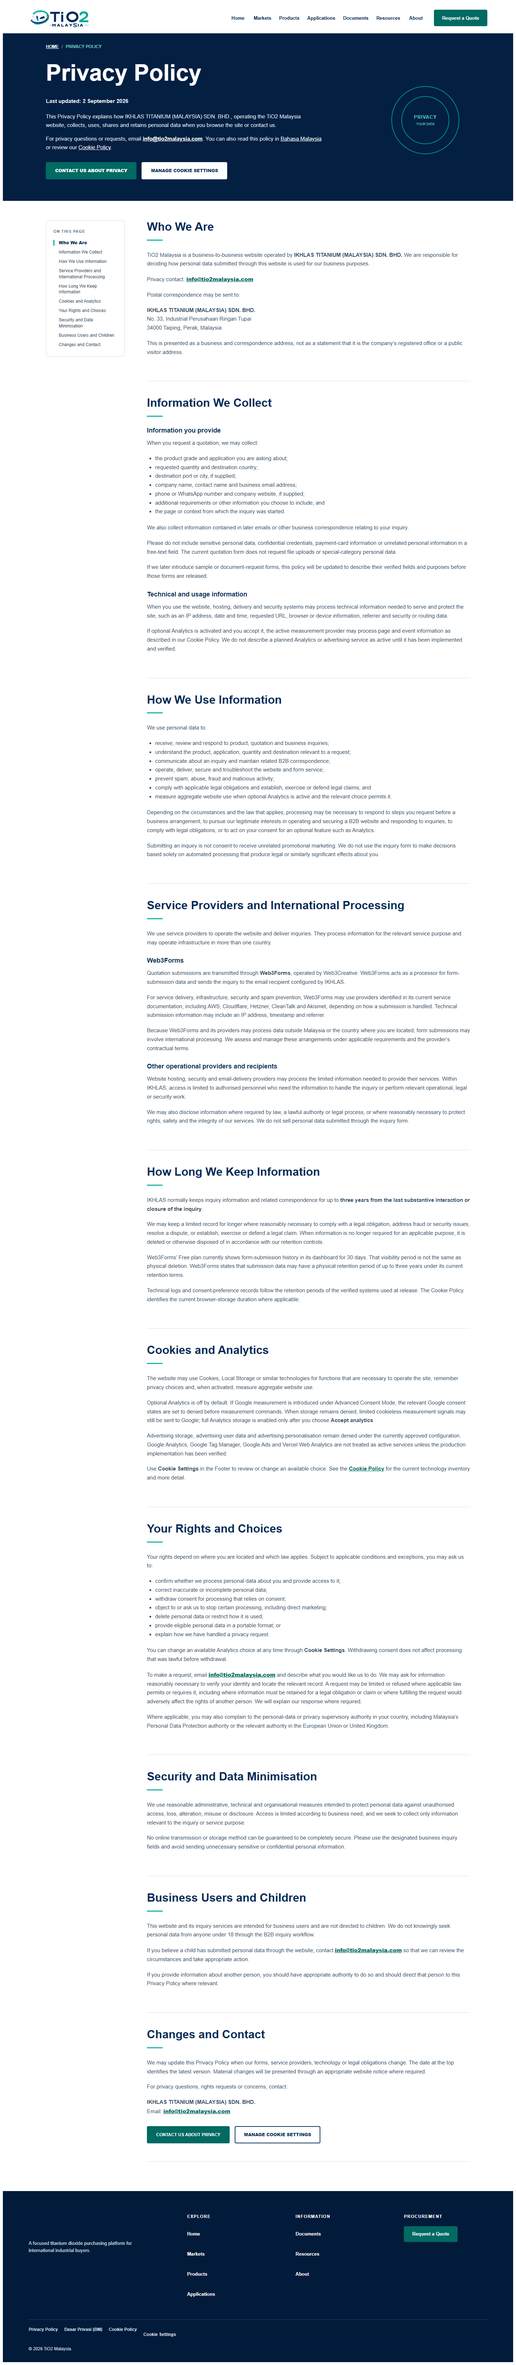
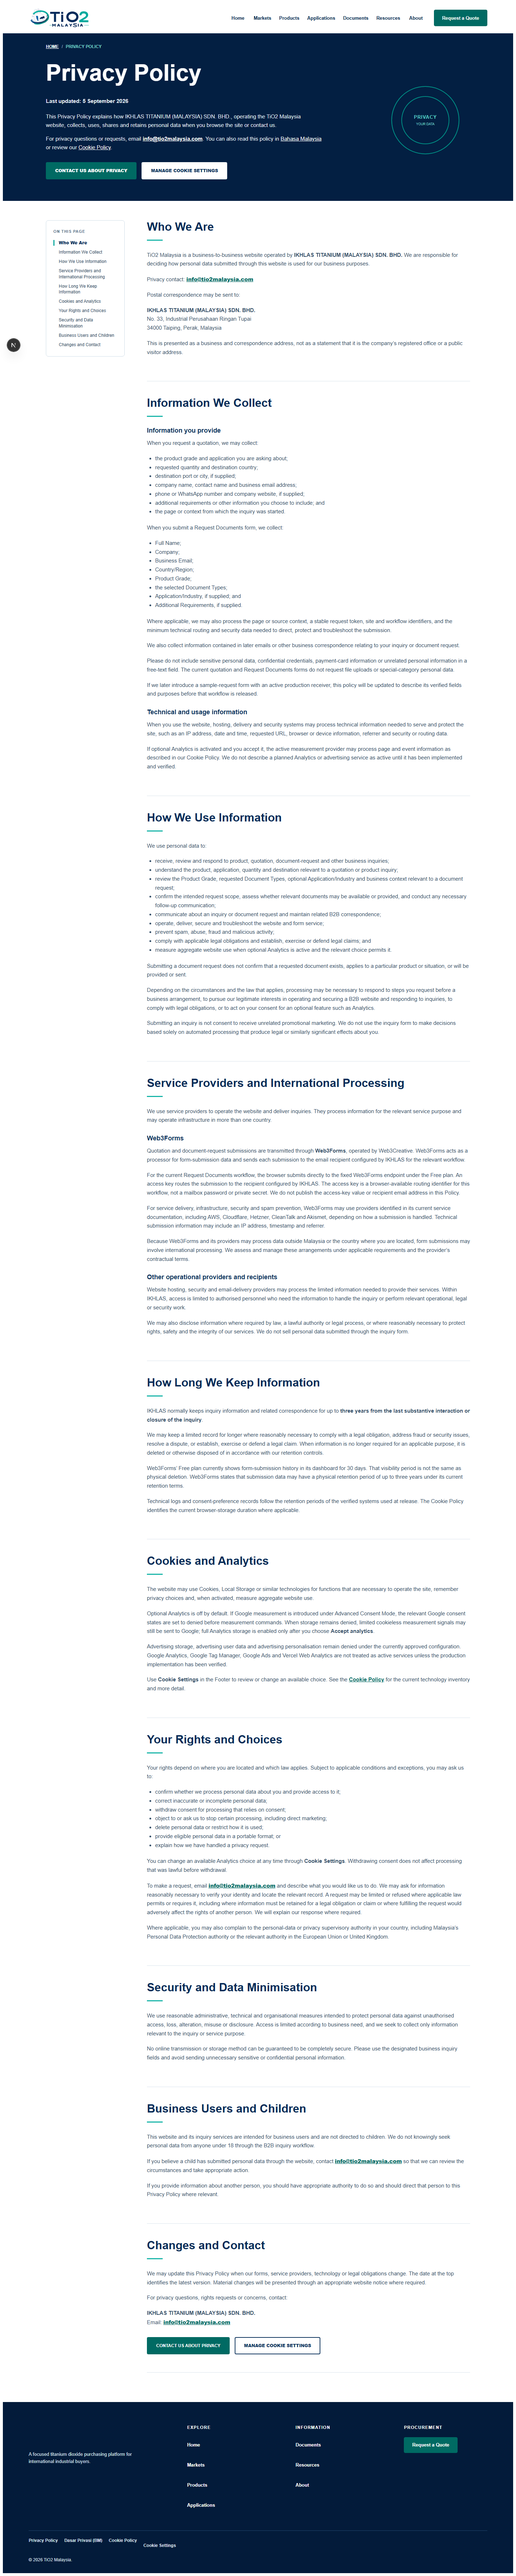
fix(tio2-my): align privacy policies with documents flow

Changed region(s): [[0.0, 0.0, 1.0, 0.9997]]

diff --git a/tests/unit/legal/legal-pages-contract.test.tsx b/tests/unit/legal/legal-pages-contract.test.tsx
@@ -8,10 +8,31 @@ import {toMalaysiaLegalPagesDto} from '@/lib/wordpress/legal-pages-v01-dto'
 import approved from '@/wordpress/plugins/tio2-site-model/config/tio2-my-legal-pages.json'
 
 const buyerVisibleSha256 = {
[5 lines of base64/hex data omitted]
 } as const
+
+const privacySourceAuthority = {
+  'LEGAL-PRIV-EN': {
+    effectiveDate: '2026-09-05',
+    sourceFile: 'LEGAL-PRIV-EN_GATE2_FULL_COPY_V0.2.md',
[1 lines of base64/hex data omitted]
+  },
+  'LEGAL-PRIV-MS': {
+    effectiveDate: '2026-09-05',
+    sourceFile: 'LEGAL-PRIV-MS_GATE2_FULL_COPY_V0.2.md',
[1 lines of base64/hex data omitted]
+  },
+} as const
+
+function requestDocumentsDisclosure(markdown: string, start: string, end: string) {
+  const startIndex = markdown.indexOf(start)
+  const endIndex = markdown.indexOf(end, startIndex + start.length)
+  expect(startIndex).toBeGreaterThanOrEqual(0)
+  expect(endIndex).toBeGreaterThan(startIndex)
+  return markdown.slice(startIndex + start.length, endIndex).trim()
+}
 
 function source(scope = 'tio2-my') {
   return approved.pages.map((page, index) => ({
@@ -57,6 +78,64 @@ describe('Legal/Privacy approved page contract', () => {
       page.pageId,
       createHash('sha256').update(page.buyerVisibleMarkdown, 'utf8').digest('hex').toUpperCase(),
     ]))).toEqual(buyerVisibleSha256)
+  })
+
+  it('binds both Privacy policies to the approved V0.2 source authorities', () => {
+    expect(Object.fromEntries(approved.pages.filter((page) => page.pageId.startsWith('LEGAL-PRIV-')).map((page) => [
+      page.pageId,
+      {effectiveDate: page.effectiveDate, sourceFile: page.sourceFile, sourceSha256: page.sourceSha256},
+    ]))).toEqual(privacySourceAuthority)
+  })
+
+  it('discloses exactly the eight active Request Documents fields and no excluded fields', () => {
+    const [privacyEn, privacyMs] = approved.pages
+    const enDisclosure = requestDocumentsDisclosure(
+      privacyEn!.buyerVisibleMarkdown,
+      'When you submit a Request Documents form, we collect:',
+      'Where applicable,',
+    )
+    const msDisclosure = requestDocumentsDisclosure(
+      privacyMs!.buyerVisibleMarkdown,
+      'Apabila anda menghantar borang Request Documents, kami mengumpul:',
+      'Apabila berkenaan,',
+    )
+
+    expect(enDisclosure.split('\n').filter((line) => line.startsWith('- '))).toEqual([
+      '- Full Name;', '- Company;', '- Business Email;', '- Country/Region;', '- Product Grade;',
+      '- the selected Document Types;', '- Application/Industry, if supplied; and',
+      '- Additional Requirements, if supplied.',
+    ])
+    expect(msDisclosure.split('\n').filter((line) => line.startsWith('- '))).toEqual([
+      '- Nama Penuh;', '- Syarikat;', '- E-mel Perniagaan;', '- Negara/Rantau;', '- Gred Produk;',
+      '- Jenis Dokumen yang dipilih;', '- Aplikasi/Industri, jika diberikan; dan',
+      '- Keperluan Tambahan, jika diberikan.',
+    ])
+    expect(enDisclosure).not.toMatch(/upload|phone|whatsapp|website|market|destination/iu)
+    expect(msDisclosure).not.toMatch(/muat naik|telefon|whatsapp|laman web|pasaran|destinasi/iu)
+  })
+
+  it('states the approved Web3Forms browser-direct and non-guarantee boundaries in both languages', () => {
+    const [privacyEn, privacyMs] = approved.pages.map((page) => page.buyerVisibleMarkdown)
+    expect(privacyEn).toContain('Quotation and document-request submissions are transmitted through **Web3Forms**')
+    expect(privacyEn).toContain('the browser submits directly to the fixed Web3Forms endpoint under the Free plan')
+    expect(privacyEn).toContain('not a mailbox password or private secret')
+    expect(privacyEn).toContain('does not confirm that a requested document exists, applies to a particular product or situation, or will be provided or sent')
+    expect(privacyEn).toContain('If we later introduce a sample-request form with an active production receiver')
+    expect(privacyEn).not.toContain('If we later introduce sample or document-request forms')
+
+    expect(privacyMs).toContain('Penghantaran sebut harga dan permintaan dokumen dihantar melalui **Web3Forms**')
+    expect(privacyMs).toContain('pelayar menghantar terus ke titik akhir Web3Forms tetap di bawah Pelan Percuma')
+    expect(privacyMs).toContain('bukannya kata laluan peti mel atau rahsia peribadi')
+    expect(privacyMs).toContain('tidak mengesahkan bahawa dokumen yang diminta wujud, terpakai kepada produk atau keadaan tertentu, atau akan diberikan atau dihantar')
+    expect(privacyMs).toContain('Jika kami memperkenalkan borang permintaan sampel dengan penerima produksi yang aktif pada masa hadapan')
+    expect(privacyMs).not.toContain('borang permintaan sampel atau dokumen')
+
+    expect(`${privacyEn}\n${privacyMs}`).not.toMatch(/NEXT_PUBLIC_TIO2_MY_WEB3FORMS_ACCESS_KEY|access_key\s*[:=]/u)
+    const renderedEmails = new Set(`${privacyEn}\n${privacyMs}`.match(/[A-Z0-9._%+-]+@[A-Z0-9.-]+\.[A-Z]{2,}/giu)?.map((email) => email.toLowerCase()) ?? [])
+    expect(
+      renderedEmails.size === 1 && renderedEmails.has('info@tio2malaysia.com'),
+      'approved Buyer-visible copy must contain no provider-bound recipient identity',
+    ).toBe(true)
   })
 
   it('renders initial legal copy, links and no false current navigation state', () => {

diff --git a/tests/e2e/legal-privacy.spec.ts b/tests/e2e/legal-privacy.spec.ts
@@ -1,6 +1,6 @@
 import AxeBuilder from '@axe-core/playwright'
 import {expect, test} from '@playwright/test'
-import {mkdirSync, readFileSync} from 'node:fs'
+import {existsSync, mkdirSync, readFileSync} from 'node:fs'
 
 import {assertRenderedMalaysiaHeaderLogo} from './support/tio2-my-logo'
 
@@ -22,6 +22,14 @@ const expectedLegalUtilities = ['Privacy Policy', 'Dasar Privasi (BM)', 'Cookie 
 const evidenceDirectory = 'docs/verification/legal-privacy'
 mkdirSync(evidenceDirectory, {recursive: true})
 
+function configuredWeb3FormsAccessKey() {
+  if (!existsSync('.env.local')) return null
+  const match = /^NEXT_PUBLIC_TIO2_MY_WEB3FORMS_ACCESS_KEY=(.+)$/mu.exec(readFileSync('.env.local', 'utf8'))
+  return match?.[1]?.trim() || null
+}
+
+const localAccessKey = configuredWeb3FormsAccessKey()
+
 function expectedH1(markdown: string) {
   return /^# (.+)$/m.exec(markdown)?.[1]
 }
@@ -42,7 +50,8 @@ for (const contract of approved.pages) {
       const response = await page.goto(`${baseUrl}${contract.path}`, {waitUntil: 'networkidle'})
       expect(response?.ok()).toBe(true)
 
-      expect(await response!.text()).toMatch(new RegExp(`<html[^>]+lang=["']${contract.locale}["']`, 'u'))
+      const initialHtml = await response!.text()
+      expect(initialHtml).toMatch(new RegExp(`<html[^>]+lang=["']${contract.locale}["']`, 'u'))
       await expect(page.locator('html')).toHaveAttribute('lang', contract.locale)
       await expect(page.locator('main')).toHaveAttribute('lang', contract.locale)
       await expect(page.locator('h1')).toHaveText(expectedH1(contract.buyerVisibleMarkdown)!)
@@ -82,6 +91,31 @@ for (const contract of approved.pages) {
       expect(await page.evaluate(() => localStorage.getItem('tio2_my_consent_v1'))).toBeNull()
       await expect(page.getByRole('dialog')).toHaveCount(0)
       expect(await page.evaluate(() => document.documentElement.scrollWidth <= window.innerWidth)).toBe(true)
+
+      if (contract.pageId.startsWith('LEGAL-PRIV-')) {
+        const updated = contract.locale === 'en'
+          ? 'Last updated: 5 September 2026'
+          : 'Kemas kini terakhir: 5 September 2026'
+        const disclosureLead = contract.locale === 'en'
+          ? 'When you submit a Request Documents form, we collect:'
+          : 'Apabila anda menghantar borang Request Documents, kami mengumpul:'
+        expect(initialHtml).toContain(updated)
+        expect(initialHtml).toContain(disclosureLead)
+        expect(initialHtml).not.toMatch(/Internal release controls|Kawalan dalaman sebelum penerbitan/u)
+        const informationSection = page.locator('main article > section').nth(1)
+        const requestDocumentFields = informationSection.locator('ul').nth(1)
+        await expect(requestDocumentFields.locator('li')).toHaveCount(8)
+        await expect(requestDocumentFields).not.toContainText(/upload|phone|whatsapp|website|market|destination|muat naik|telefon|laman web|pasaran|destinasi/iu)
+        await expect(page.locator('main')).not.toContainText(/NEXT_PUBLIC_TIO2_MY_WEB3FORMS_ACCESS_KEY|access_key\s*[:=]/u)
+        if (localAccessKey) {
+          expect(initialHtml.includes(localAccessKey), 'configured Web3Forms Access Key must not render').toBe(false)
+        }
+        const renderedEmails = new Set(initialHtml.match(/[A-Z0-9._%+-]+@[A-Z0-9.-]+\.[A-Z]{2,}/giu)?.map((email) => email.toLowerCase()) ?? [])
+        expect(
+          renderedEmails.size === 1 && renderedEmails.has('info@tio2malaysia.com'),
+          'Privacy runtime must render only the approved privacy-contact email identity',
+        ).toBe(true)
+      }
 
       if (width <= 900) {
         const menuButton = page.getByRole('button', {name: 'Open primary navigation'})

diff --git a/tests/unit/legal/legal-pages-seo.test.ts b/tests/unit/legal/legal-pages-seo.test.ts
@@ -28,10 +28,17 @@ describe('Legal page metadata and Schema', () => {
   })
 
   it('emits only visible-copy-equivalent WebPage and BreadcrumbList nodes', () => {
-    const page = toMalaysiaLegalPagesDto(sources)[0]!
-    const graph = buildMalaysiaLegalPageJsonLd(getSiteConfig('tio2-my'), page)['@graph'] as Array<Record<string, unknown>>
-    expect(graph.map((node) => node['@type'])).toEqual(['WebPage', 'BreadcrumbList'])
-    expect(graph[0]).toMatchObject({inLanguage: 'en', dateModified: '2026-09-02'})
-    expect(JSON.stringify(graph)).not.toMatch(/FAQPage|Article|LegalService|TermsOfService/)
+    const pages = toMalaysiaLegalPagesDto(sources)
+    const expected = [
+      {inLanguage: 'en', dateModified: '2026-09-05'},
+      {inLanguage: 'ms-MY', dateModified: '2026-09-05'},
+      {inLanguage: 'en', dateModified: '2026-09-02'},
+    ]
+    pages.forEach((page, index) => {
+      const graph = buildMalaysiaLegalPageJsonLd(getSiteConfig('tio2-my'), page)['@graph'] as Array<Record<string, unknown>>
+      expect(graph.map((node) => node['@type'])).toEqual(['WebPage', 'BreadcrumbList'])
+      expect(graph[0]).toMatchObject(expected[index])
+      expect(JSON.stringify(graph)).not.toMatch(/FAQPage|Article|LegalService|TermsOfService/)
+    })
   })
 })

diff --git a/tests/integration/legal/legal-pages-routes.test.tsx b/tests/integration/legal/legal-pages-routes.test.tsx
@@ -35,4 +35,17 @@ describe('Legal/Privacy exact route assembly', () => {
     expect(markup.match(/<script type="application\/ld\+json">/gu)).toHaveLength(1)
     expect(markup).not.toMatch(/terms-of-use|legal\/privacy-policy|Internal release controls/iu)
   })
+
+  it.each([
+    ['@/app/privacy-policy/page', 'Last updated: 5 September 2026', 'When you submit a Request Documents form, we collect:'],
+    ['@/app/ms/privacy-policy/page', 'Kemas kini terakhir: 5 September 2026', 'Apabila anda menghantar borang Request Documents, kami mengumpul:'],
+  ])('renders the V0.2 disclosure in the initial HTML for %s', async (modulePath, updated, disclosure) => {
+    const route = modulePath.includes('/ms/')
+      ? await import('@/app/ms/privacy-policy/page')
+      : await import('@/app/privacy-policy/page')
+    const markup = renderToStaticMarkup(await route.default())
+    expect(markup).toContain(updated)
+    expect(markup).toContain(disclosure)
+    expect(markup).not.toMatch(/Internal release controls|Kawalan dalaman sebelum penerbitan/u)
+  })
 })

diff --git a/docs/verification/legal-privacy/LEGAL_PRIVACY_CONV_DOC_V02_RUNTIME_PARITY_2026-09-05.md b/docs/verification/legal-privacy/LEGAL_PRIVACY_CONV_DOC_V02_RUNTIME_PARITY_2026-09-05.md
@@ -1,0 +1,65 @@
+# Legal / Privacy CONV-DOC V0.2 Runtime Parity — 2026-09-05
+
+Status: `IMPLEMENTED_LOCALLY / TARGETED_READ_ONLY_REREVIEW_READY / NOT_PUBLISHED`
+
+Review ID: `LEGAL-PRIVACY-G9-CONV-DOC-PARITY-PCR-01`
+
+## Authority and scope
+
[4 lines of base64/hex data omitted]
+- Only `LEGAL-PRIV-EN` and `LEGAL-PRIV-MS` were updated. `LEGAL-COOKIE-EN`, shared Chrome, consent runtime, routes, layout, responsive CSS, Canonical, hreflang, robots, metadata descriptions and Schema types remain unchanged.
+
+## Runtime parity
+
+- Both Privacy records now declare `effectiveDate=2026-09-05`, their V0.2 source file and exact source-document SHA-256.
+- Normalized Buyer-visible copy is byte-equal to each approved V0.2 Buyer-visible section:
[2 lines of base64/hex data omitted]
+- Both languages expose exactly eight Request Documents fields: Full Name / Nama Penuh, Company / Syarikat, Business Email / E-mel Perniagaan, Country/Region / Negara/Rantau, Product Grade / Gred Produk, selected Document Types / Jenis Dokumen yang dipilih, optional Application/Industry / Aplikasi/Industri, and optional Additional Requirements / Keperluan Tambahan.
+- The Request Documents disclosure contains zero upload, telephone/WhatsApp, Website or Market/Destination fields.
+- Both policies disclose page/source context, stable request token, site/workflow identifiers and minimum routing/security data only where applicable.
+- Both policies cover quotation and document-request Web3Forms processing, the current Free-plan browser-direct fixed-endpoint model, and the Access Key as a browser-available routing identifier rather than a mailbox password/private secret. Complete Buyer-visible source hashes prohibit extra unlabeled values; browser verification also compares against the configured local key without logging it and requires the only rendered email identity to be the approved privacy-contact address. No Access Key value or provider-bound recipient address is rendered.
+- Both policies state the receive/review/respond, scope/document-availability assessment and necessary-follow-up purposes without guaranteeing document existence, applicability, provision or sending.
+- Sample is the only future form disclosure; Document Request is described as active.
+- Existing 30-day dashboard visibility, up-to-three-year provider physical-retention wording, IKHLAS three-year retention, international processing, rights and security sections remain present without substantive change outside the approved V0.2 text.
+
+## Initial HTML and browser evidence
+
+- The route integration test renders both policies with `renderToStaticMarkup`, asserts the exact 5 September 2026 date and Request Documents disclosure lead in initial HTML, and rejects internal-control text.
+- The Playwright matrix asserts the same facts against each raw initial HTTP response and browser DOM at 390, 768 and 1440 CSS pixels. It also verifies exactly eight Request Documents list items, zero excluded fields, no Access Key identifier/value leakage, reciprocal language markup, shared Chrome, Cookie Settings behavior, no optional Analytics requests/storage, zero horizontal overflow and Axe zero violations.
+- A first diagnostic E2E run exposed Next 16 development-origin blocking because the server was bound to `localhost` while the test used `127.0.0.1`; this was an environment-only hydration failure. Binding the local verification server to `127.0.0.1` produced the clean 13/13 result without runtime-code changes.
+
+| Browser evidence | SHA-256 |
+| --- | --- |
[6 lines of base64/hex data omitted]
+
+## Verification results
+
+| Check | Result |
+| --- | --- |
+| TDD RED | 2 files: 6 expected V0.1 parity failures, 7 existing tests passed |
+| Legal unit/integration/infrastructure | 6 files / 21 tests passed |
+| TypeScript | `tsc --noEmit` passed |
+| Changed-file ESLint | passed with zero errors |
+| Preview build | passed; 35/35 static pages generated and both Privacy routes emitted |
+| Legal/Privacy Playwright | 13/13 passed |
+| Post-review EN/BM leakage regression | 6/6 passed after adding configured-key and approved-email-identity assertions |
+| Normalized source/runtime comparison | EN `true`; BM `true` |
+| Request Documents field boundary | EN 8 / forbidden 0; BM 8 / forbidden 0 |
+
+The build and browser run used a local read-only GraphQL proxy that replaced only the Legal bundle with the checked-in V0.2 contract and forwarded all other queries to local WordPress. This avoided any production or shared local CMS write while exercising the normal Next.js query, DTO, rendering, metadata and browser paths.
+
+## Preserved blockers and boundary
+
+- Qualified BM legal/meaning-equivalence review remains open.
+- Production Web3Forms account ownership, Access Key placement, recipient binding and authorised mailbox-receipt confirmation remain subject to the current release record.
+- Production host/provider/storage/network inventory, operational-retention parity, qualified legal review and Gate 10 remain open.
+- No deployment, production CMS write, publication, DNS change or indexing action was performed.
